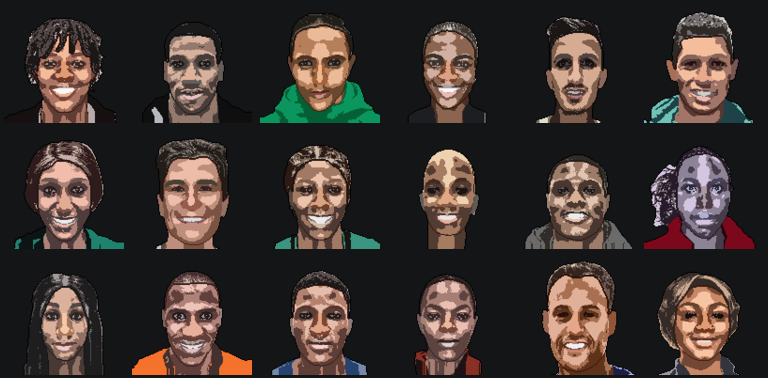
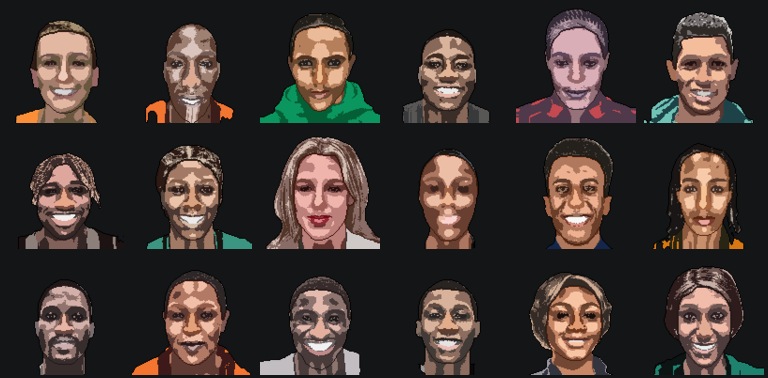
london montage

diff --git a/index.html b/index.html
@@ -5,9 +5,9 @@
     <!-- <link rel="icon" type="image/svg+xml" href="/src/favicon.svg" /> -->
     <meta name="viewport" content="width=device-width, initial-scale=1.0" />
     <!--
-      montage -background "#141517" -tile 6x $(jq -r '(.stockholm23 | values)[].entrants[0,1].id' < public/entries.json | sed -e 's|^|./public/img/avatars/|' | sed -e 's/$/_128x128.png/' | tr '\n' ' ') public/montage.png && feh public/montage.png
+      montage -background "#141517" -tile 6x $(jq -r '(.london23 | values)[].entrants[0,1].id' < public/entries.json | sed -e 's|^|./public/img/avatars/|' | sed -e 's/$/_128x128.png/' | tr '\n' ' ') public/montage.png && feh public/montage.png
     -->
-    <meta property="og:image" content="https://hpr.github.io/silesia23/montage.png" />
+    <meta property="og:image" content="https://hpr.github.io/london23/montage.png" />
     <title>Fantasy London '23</title>
   </head>
   <body>
